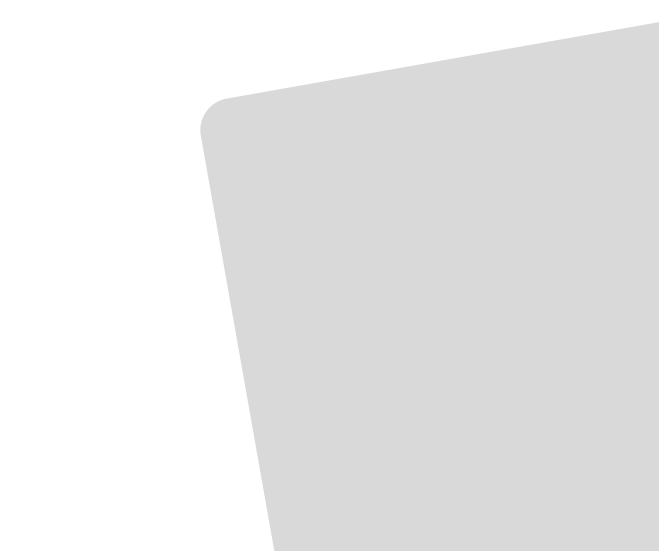
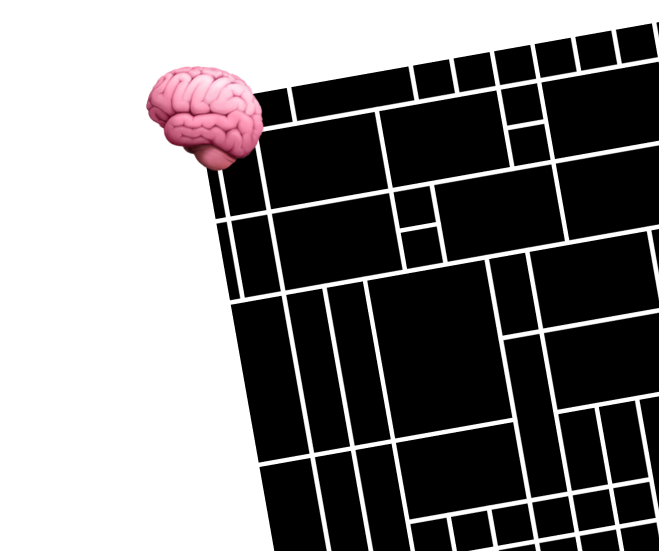
v12

diff --git a/aiMode.html b/aiMode.html
@@ -68,8 +68,15 @@
     </div>
 
     <style>
+        :root {
+            --primary-color: #0e0e0e;
+            --secondary-color: #f9f9f9;
+            --text-color: #f9f9f9;
+            --accent-color: #ff6600;
+        }
+
         body {
-            background-color: white;
+            background-color: var(--primary-color);
         }
 
         .aiIcon {
@@ -116,8 +123,8 @@
         h5 {
             position: fixed;
             bottom: 22px;
-            letter-spacing: -1px;
-            font-size: 16px;
+            letter-spacing: -0.5px;
+            font-size: 14px;
             color: gray;
             font-weight: 400;
             text-align: center;
@@ -128,13 +135,13 @@
 
         a {
             text-align: none;
-            color: black;
+            color: var(--secondary-color);
             text-underline-offset: 4px;
         }
 
         h6 {
             font-size: 18px;
-            color: black;
+            color: var(--secondary-color);
             font-weight: 400;
         }
 
@@ -196,7 +203,7 @@
             padding-right: 64px;
             padding-top: 32px;
             padding-bottom: 32px;
-            background-color: white;
+            background-color: var(--primary-color);
             height: fit-content;
         }
 
@@ -243,7 +250,7 @@
 
         .promptBtn {
             display: block;
-            background-color: rgb(237, 238, 240);
+            background-color: #2a2a2a;
             cursor: pointer;
             overflow: hidden;
             border-radius: 4px;
@@ -280,14 +287,14 @@
         }
 
         .promptBtn:hover {
-            background-color: #c4c4c4;
+            background-color: #151515;
         }
 
         /*--------*/
 
         .aiBox {
             position: relative;
-            background-color: white;
+            background-color: var(--primary-color);
             z-index: 888888;
             height: calc(100% - 112px);
             box-sizing: border-box;
@@ -301,31 +308,19 @@
         }
 
         .responseBox::-webkit-scrollbar {
-            width: 5px;
-        }
-
-        .responseBox::-webkit-scrollbar-track {
-            background-color: white;
-        }
-
-        .responseBox::-webkit-scrollbar-thumb {
-            background: black;
-        }
-
-        .responseBox::-webkit-scrollbar-thumb:hover {
-            background: #555;
+            width: 0px;
         }
 
         .responseBox p {
             font-size: 20px;
             line-height: calc(32px * 1.2);
             margin-bottom: 20px;
-            color: black;
+            color: var(--secondary-color);
         }
 
         .responseBox p {
             margin-bottom: 20px;
-            color: black;
+            color: var(--secondary-color);
             text-wrap: wrap;
         }
 
@@ -339,24 +334,19 @@
             display: flex;
             justify-content: stretch;
             align-items: center;
-            background-color: rgb(211, 211, 211);
+            background-color: var(--accent-color);
             border: none;
-            color: black;
+            color: var(--secondary-color);
             box-sizing: border-box;
             cursor: pointer;
             font-size: 20px;
             border-radius: 100rem;
         }
 
-        .send:hover {
-            background-color: #e6590c;
-            color: white;
-        }
-
         .LlmTxt {
             border-radius: 0 !important;
             border: none !important;
-            background-color: white !important;
+            background-color: var(--secondary-color) !important;
             width: 100% !important;
             margin: 0 !important;
             box-sizing: border-box;
@@ -368,7 +358,7 @@
             width: 100% !important;
             border-radius: 0 !important;
             border: none !important;
-            background-color: white !important;
+            background-color: var(--secondary-color) !important;
             margin: 0 !important;
             height: 100%;
             padding-left: 24px;
@@ -376,7 +366,7 @@
 
         input:-webkit-autofill {
             -webkit-box-shadow: 0 0 0 1000px #121212 inset;
-            -webkit-text-fill-color: white;
+            -webkit-text-fill-color: var(--secondary-color);
             transition: background-color 5000s ease-in-out;
         }
 
@@ -391,12 +381,13 @@
             padding: 14px 18px;
             border-radius: 100rem;
             box-sizing: border-box;
-            background-color: rgb(237, 238, 240);
+            background-color: rgb(31, 31, 31);
+            box-shadow: 2px 2px 5px rgba(0, 0, 0, 0.5);
         }
 
         input[type=text] {
             font-size: 20px;
-            color: black;
+            color: var(--secondary-color);
             background-color: transparent !important;
         }
 
@@ -454,7 +445,6 @@
                 letter-spacing: -0.5px;
                 line-height: calc(20px * 1.2);
                 margin-bottom: 20px;
-                color: black;
             }
 
             .inputBox {

diff --git a/aiMode.js b/aiMode.js
@@ -250,10 +250,14 @@ function buildParagraph(matchedKeys) {
 const personalSynonyms = {
   name: ["name", "who is alex", "full name"],
   role: ["role", "job", "position"],
-  "dream job": ["dream job", "goal", "dream"],
+  "dream job": ["dream job", "goal", "dream", "job idea"],
   linkedin: ["linkedin"],
-  time: ["time", "what time is it", "current time"]
+  time: ["time", "what time is it", "current time"],
+  education: ["education", "school"],
+  philosophy: ["philosophy", "motto", "design thinking"],
+  background: ["background", "who is alex", "perosnal background", "story"]
 };
+
 
 // -------- Find Response --------
 async function findResponse(userInput) {
@@ -448,7 +452,6 @@ function renderPrompts() {
         p.addEventListener("click", () => {
           input.value = item.text.replace("Learn about Alex ", "");
           sendMessage();
-          introScreen.remove(); // hide prompts after selection
         });
 
         box.appendChild(p);
